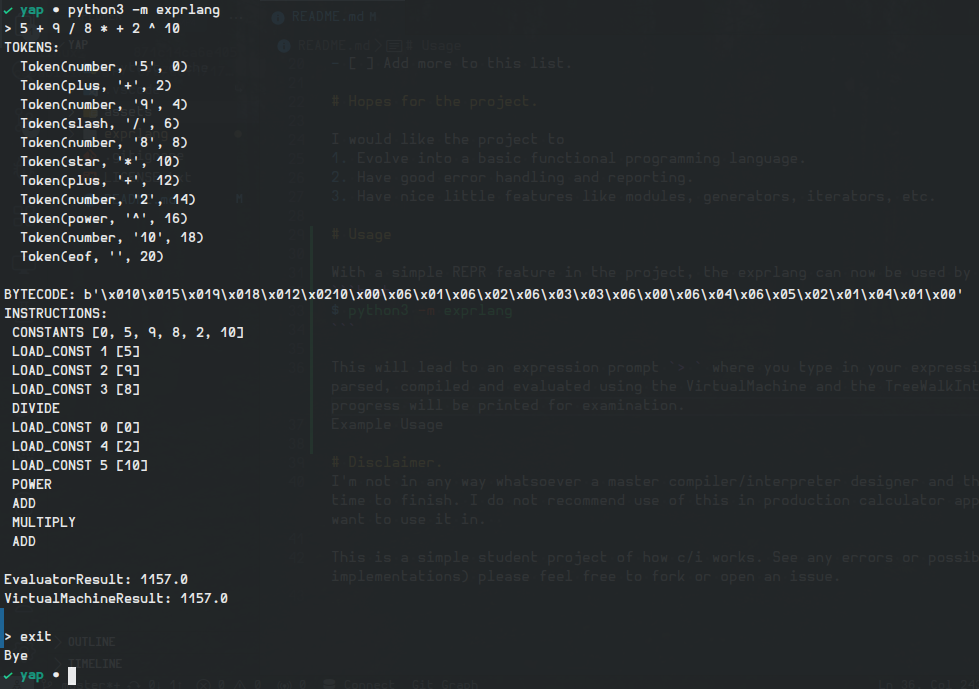
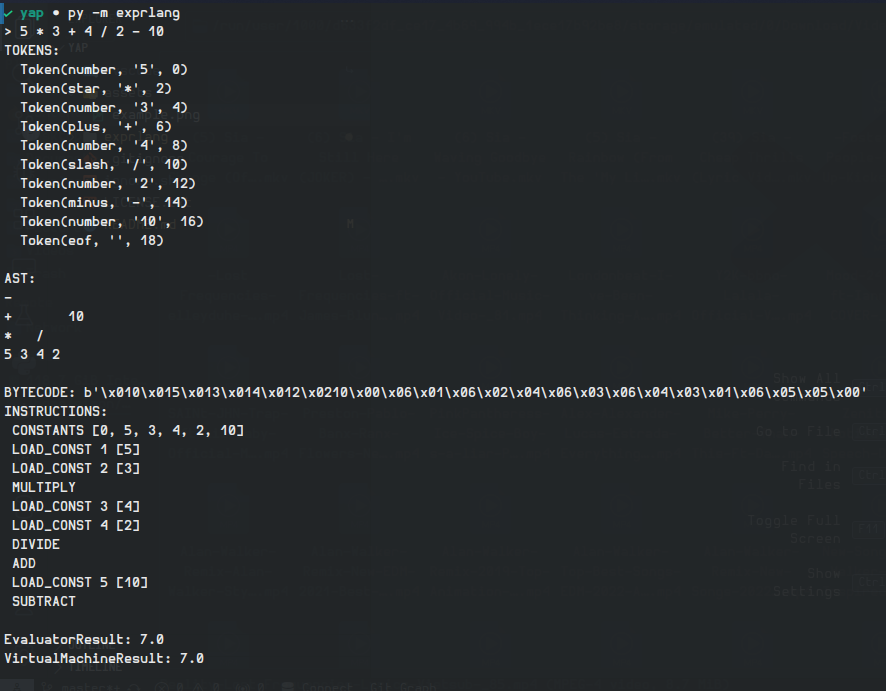
Added a facade and an astprinter.
The execution chain is quite long and tedious to create all the time:
create a lexer, then a parser then an evaluator then pipeline the expr
through the lexer, parser and finally to the evaluator just to get a
an answer. I have fixed this by creating a Facade class, ExprEvaluator,
to hide away the execution pipeline by exposing 3 methods necessary to
execute an expression from start to end: compile, exec and eval.

The compile method compiles an expression to bytecode, the exec method
executes bytecode while eval executes the passed expression via the
TreeWalkInterpreter, Evaluator. Other objects like then Compiler,
Evaluator, VirtualMachine, Lexer and Parser are properties of the Facade
class which initializes them as needed so you don't have to.

A basic, but pretty useful ASTPrinter has been created and added to
the printer module alongside ByteCodePrinter. It simply prints the AST
produced by the Parser.
Example:
Expression: 100 / 20 * 4 + 50 - 2 ^ 10 / 128 * 7

AST Tree:
-
+           *
*        50 /        7
/      4    ^    128
100 20      2 10

If read carefully, it represents the above expression.

Changed region(s): [[0.0, 0.0, 0.9752, 1.0]]

diff --git a/exprlang/printer.py b/exprlang/printer.py
@@ -1,5 +1,22 @@
+from exprlang.nodes import Group, Minus, Number, Plus, Power, Slash, Star, UMinus, UPlus
 from .instructions import Instruction
 from .exc import UnknownInstruction
+from collections import defaultdict
+from .nodes import (
+    Expression,
+    Visitor,
+    Number,
+    UMinus,
+    Minus,
+    Slash,
+    Power,
+    UPlus,
+    Group,
+    Plus,
+    Star,
+    Binary,
+    Unary,
+)
 
 
 class ByteCodePrinter:
@@ -89,3 +106,75 @@ class ByteCodePrinter:
         indent = " " if indent is None else indent
         instructions = self.join(indent)
         print(instructions)
+
+
+class ASTPrinter(Visitor):
+    def __init__(self) -> None:
+        self._column = 0
+        self._lines = defaultdict(lambda: "")
+        self._line = 0
+
+    @property
+    def indent(self):
+        return " " * self._column
+
+    def advance(self, size: int = 1):
+        self._column += size
+
+    def accept_number(self, expr: Number):
+        number = self.indent + expr.token.lexeme
+        self.advance(len(expr.token.lexeme))
+        self.addline(number)
+
+    def addline(self, string: str):
+        current = self._lines[self._line]
+        current += string[len(current) :]
+        self._lines[self._line] = current
+
+    def _accept_binary(self, expr: Binary):
+        head = self.indent + expr.operator.lexeme
+        self.addline(head)
+        self._line += 1
+        expr.left.accept(self)
+        self.advance()
+        expr.right.accept(self)
+        self._line -= 1
+
+    def _accept_unary(self, expr: Unary):
+        head = self.indent + expr.operator.lexeme
+        self.addline(head)
+        self._line += 1
+        expr.right.accept(self)
+        self._line -= 1
+
+    def accept_plus(self, expr: Plus):
+        return self._accept_binary(expr)
+
+    def accept_minus(self, expr: Minus):
+        return self._accept_binary(expr)
+
+    def accept_power(self, expr: Power):
+        return self._accept_binary(expr)
+
+    def accept_slash(self, expr: Slash):
+        return self._accept_binary(expr)
+
+    def accept_star(self, expr: Star):
+        return self._accept_binary(expr)
+
+    def accept_group(self, expr: Group):
+        return expr.right.accept(self)
+
+    def accept_uminus(self, expr: UMinus):
+        return self._accept_unary(expr)
+
+    def accept_uplus(self, expr: UPlus):
+        return self._accept_unary(expr)
+
+    reset = __init__
+
+    def print(self, root: Expression):
+        self.reset()
+        root.accept(self)
+        for line in sorted(self._lines):
+            print(self._lines[line])

diff --git a/exprlang/__main__.py b/exprlang/__main__.py
@@ -1,5 +1,5 @@
+from .printer import ByteCodePrinter, ASTPrinter
 from .exc import LexerError, ParserError
-from .printer import ByteCodePrinter
 from .evaluator import Evaluator
 from .vm import VirtualMachine
 from .compiler import Compiler
@@ -7,6 +7,7 @@ from .parser import Parser
 from .lexer import Lexer
 
 bytecodeprinter = ByteCodePrinter()
+astprinter = ASTPrinter()
 evaluator = Evaluator()
 vm = VirtualMachine()
 compiler = Compiler()
@@ -22,6 +23,9 @@ def _run(expr: str):
             print(f"  {token!s}")
         print()
         ast = parser.parse(tokens)
+        print("AST:")
+        astprinter.print(ast)
+        print()
         bytecode = compiler.compile(ast)
         print(f"BYTECODE: {bytecode!r}")
         print("INSTRUCTIONS:")
@@ -40,6 +44,7 @@ def _run(expr: str):
 
 
 def main():
+    print("Enter exit, quit, bye, q or press ctrl-c to exit.")
     while True:
         expr = input("> ")
         if expr in ("exit", "q", "quit", "bye"):

diff --git a/exprlang/main.py b/exprlang/main.py
@@ -1,0 +1,30 @@
+from .vm import VirtualMachine as _VirtualMachine
+from .evaluator import Evaluator as _Evaluator
+from .compiler import Compiler as _Compiler
+from .parser import Parser as _Parser
+from .lexer import Lexer as _Lexer
+
+
+class ExprEvaluator:
+    # Facade to abstract away all the complexity.
+    def __init__(self) -> None:
+        self._vm = _VirtualMachine()
+        self._eval = _Evaluator()
+        self._comp = _Compiler()
+        self._pars = _Parser()
+        self._lex = _Lexer()
+
+    def _genast(self, expr: str):
+        tokens = self._lex.scan(expr)
+        return self._pars.parse(tokens)
+
+    def eval(self, expr: str):
+        ast = self._genast(expr)
+        return self._eval.eval(ast)
+
+    def exec(self, bytecode: bytes):
+        return self._vm.execute(bytecode)
+
+    def compile(self, expr: str):
+        ast = self._genast(expr)
+        return self._comp.compile(ast)

diff --git a/exprlang/vm.py b/exprlang/vm.py
@@ -4,13 +4,13 @@ from .exc import UnknownInstruction
 
 class VirtualMachine:
     def __init__(self, bytecode: list[int] | bytes | None = None) -> None:
-        self._stack = []
+        self._bytecode = bytecode or [Instruction.EOS, Instruction.EOS]
         self._constants: list[int | float] = []
-        self._bytecode = bytecode or b""
         self._stop = len(self._bytecode)
+        self._current = 0
+        self._stack = []
         self.push = self._stack.append
         self.pop = self._stack.pop
-        self._current = 0
 
     reset = __init__
 
@@ -18,7 +18,8 @@ class VirtualMachine:
         self.reset(bytecode)
         self._load_constants()
         self._execute()
-        return self.pop()
+        if self._stack:
+            return self.pop()
 
     def _load_constants(self):
         while self.peek() != Instruction.EOS:

diff --git a/exprlang/tests.py b/exprlang/tests.py
@@ -2,10 +2,10 @@ from .instructions import Instruction
 from .token import Token, TokenType
 from .evaluator import Evaluator
 from .compiler import Compiler
+from .vm import VirtualMachine
 from .parser import Parser
 from .lexer import Lexer
 from . import nodes
-from .vm import VirtualMachine
 
 
 def test_lexer():

diff --git a/README.md b/README.md
@@ -2,7 +2,7 @@
 
 ### **YAP** project.
 
-This project is an attempt to understand compilation, stack based virtual machines, bytecode generation, compactful executables (bytecode with advanced features) and executing bytecodes.  
+This project is an attempt to understand compilation, stack based virtual machines, bytecode generation, compactful executables (bytecode with advanced features) and executing bytecodes.
 
 This will also show the advantages of compilation over interpretation and hopefully will get my feet into compiler optimization. Specifically, simple compile time code evaluation (if all operands of an operation are available at compile time, then evaluate).
 
@@ -15,20 +15,52 @@ This will also show the advantages of compilation over interpretation and hopefu
 - [x] Implement a simple AST Compiler.
 - [x] Add a simple informative and usable REPR.
 - [x] Add an instruction printer.
-- [ ] Add an AST printer.
+- [x] Add an AST printer.
 - [ ] Add a linter/expression formatter.
 - [ ] Add more to this list.
 
 # Hopes for the project.
 
 I would like the project to
+
 1. Evolve into a basic functional programming language.
 2. Have good error handling and reporting.
 3. Have nice little features like modules, generators, iterators, etc.
 
 # Usage
 
+## Scripting.
+
+You can also import the project to use alongside your application.
+
+```python
+from exprlang.main import ExprEvaluator
+
+expreval = ExprEvaluator()
+
+expr = "5 * 3 + 4 / 2 - 10"
+print(f"Expression: {expr}")
+# Expression: 5 * 3 + 4 / 2 - 10
+
+result = expreval.eval(expr)
+print(f"EvalResult: {result}")
+# EvalResult: 7.0
+
+bytecode = expreval.compile(expr)
+print(f"ByteCode: {bytecode}")
+# ByteCode: b'\x010\x015\x013\x014\x012\x0210\x00\x06\x01\x06\x02\x04\x06\x03\x06\x04\x03\x01\x06\x05\x05\x00'
+
+vm_result = expreval.exec(bytecode)
+print(f"VmResult: {vm_result}")
+# VmResult: 7.0
+
+assert vm_result == result
+```
+
+## From terminal.
+
 With a simple REPR feature in the project, the exprlang can now be used by simply running.
+
 ```bash
 $ python3 -m exprlang
 ```
@@ -38,6 +70,7 @@ This will lead to an expression prompt `> ` where you type in your expression, i
 ![Example Usage](/assets/example.png)
 
 # Disclaimer.
-I'm not in any way whatsoever a master compiler/interpreter designer and this project will take a long time to finish. I do not recommend use of this in production calculator applications or whatever you want to use it in.  
+
+I'm not in any way whatsoever a master compiler/interpreter designer and this project will take a long time to finish. I do not recommend use of this in production calculator applications or whatever you want to use it in.
 
 This is a simple student project of how c/i works. See any errors or possible improvement (including implementations) please feel free to fork or open an issue.
